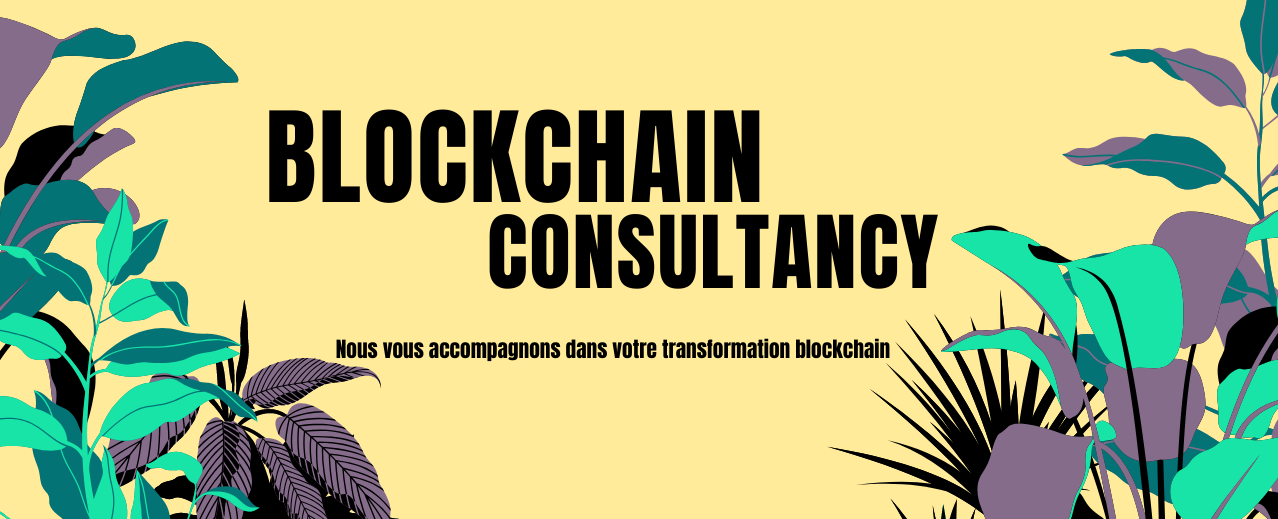
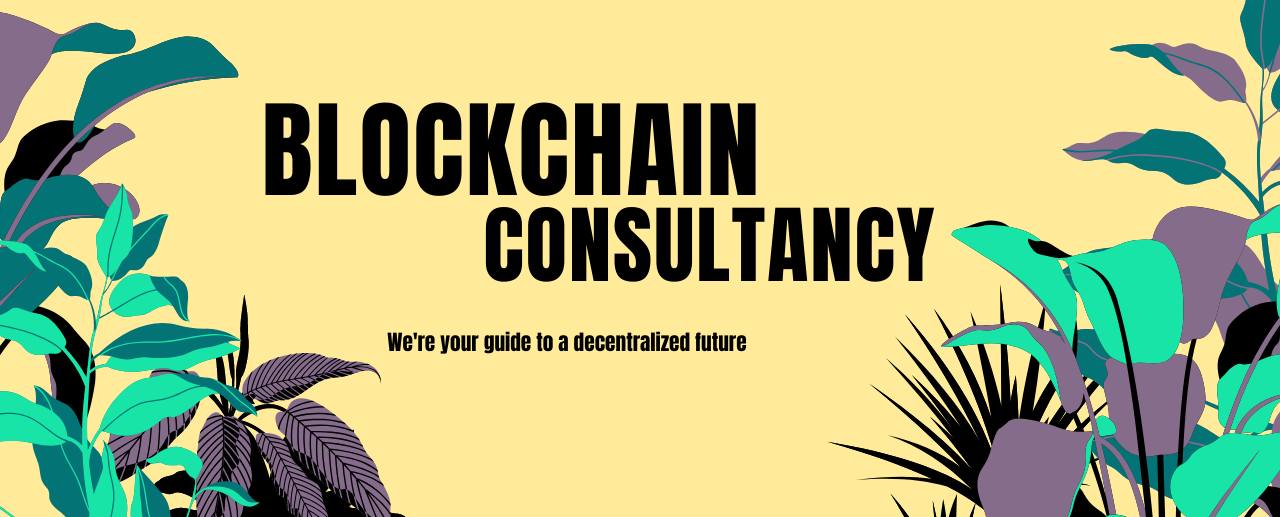
link to free coin token

diff --git a/src/Components/singlePageApplication.js b/src/Components/singlePageApplication.js
@@ -19,12 +19,21 @@ class SinglePageApplication extends React.Component {
                     </figure>
                     </a>
                 </div>
+                <div id="blogSection">
+                    <div id="blogButton">
+                    <a href="https://academy.twin-fish.com">
+                        <button class="button is-outlined blogButton">Blog</button>
+                    </a>
+                    </div>
+                </div>
             </nav>
             <div>
                 <div id="accompagnement">
                     <div id="contactUs">
                         <div className="container" id="contactezNousCont">
-                            <button className="button is-small is-primary is-rounded is-focused" id="contactezNous">CONTACTEZ-NOUS</button>
+                            <a href="#footer">
+                                <button className="button is-small is-primary is-rounded is-focused" id="contactezNous">CONTACT US</button>
+                            </a>
                         </div>
                     </div>
                     <section className="hero is-medium is-light is-bold">
@@ -86,7 +95,7 @@ class SinglePageApplication extends React.Component {
                                     <p className="title">Freecoin</p>
                                     <p className="subtitle">Implementation of ERC20 Token</p>
                                     <figure className="image" id="uniswapImage">
-                                        <a href="https://erc20exchange.herokuapp.com" id="roundedImageLink">
+                                        <a href="https://freecointoken.herokuapp.com/" id="roundedImageLink">
                                             <img className="is-rounded" id="roundedImage" src="https://image.flaticon.com/icons/png/128/2284/2284958.png"/>
                                         </a>
                                     </figure>
@@ -152,7 +161,9 @@ class SinglePageApplication extends React.Component {
                         <br/>
                         <br/>
                         <br/>
-                        <button className="button are-medium is-rounded is-focused is-primary">Contact us</button>
+                        <a href="#footer">
+                            <button className="button are-medium is-rounded is-focused is-primary">CONTACT US</button>
+                        </a>
                     </section>
                     <footer className="footer" id="footer">
                         <div className="content" id="footerContent">
@@ -160,7 +171,7 @@ class SinglePageApplication extends React.Component {
                                 <img src="./whiteIcon.png"/>
                             </figure>                     
                         </div>
-                        <div>Contact us at <a href="#" id="emailLink" title="Email">matthieumariejoseph@gmail.com</a></div>
+                        <div>Contact us at <a href="#" id="emailLink" title="Email">matthieu.mariejoseph@twin-fish.com</a></div>
                         <br/>
                         <br/>
                         <div id="flaticon">Icons made by <a href="https://www.flaticon.com/authors/freepik" title="Freepik">Freepik</a> from <a href="https://www.flaticon.com/" title="Flaticon">www.flaticon.com</a></div>

diff --git a/src/index.css b/src/index.css
@@ -14162,7 +14162,7 @@ input[type=range].slider {
     padding-top: 95% !important; }
   #contactezNous {
     margin-bottom: 30% !important; }
-  #contactUs {
+  #accompagnement {
     background-image: url("Images/nousVousAccompagnons.png"); }
   .tile.is-parent {
     padding: 2rem; }
@@ -14323,3 +14323,17 @@ input[type=range].slider {
 
 #emailLink {
   color: white; }
+
+#blogSection {
+  grid-column-start: 3;
+  display: grid;
+  grid-template-columns: 1fr 1fr 1fr; }
+
+#blogButton {
+  grid-column-start: 3; }
+
+.blogButton {
+  margin-top: 4% !important;
+  margin-right: 4% !important;
+  color: #856c8b;
+  border-color: #856c8b; }

diff --git a/src/sass/twinFish.scss b/src/sass/twinFish.scss
@@ -11,7 +11,7 @@
         margin-bottom: 30% !important;
     }
 
-    #contactUs {
+    #accompagnement {
         background-image: url("Images/nousVousAccompagnons.png");
     }
 
@@ -236,4 +236,21 @@
 
 #emailLink {
     color: white;
+}
+
+#blogSection {
+    grid-column-start: 3;
+    display: grid;
+    grid-template-columns: 1fr 1fr 1fr;
+}
+
+#blogButton {
+    grid-column-start: 3;
+}
+
+.blogButton {
+    margin-top: 4% !important;
+    margin-right: 4% !important;
+    color: #856c8b;
+    border-color: #856c8b;
 }
